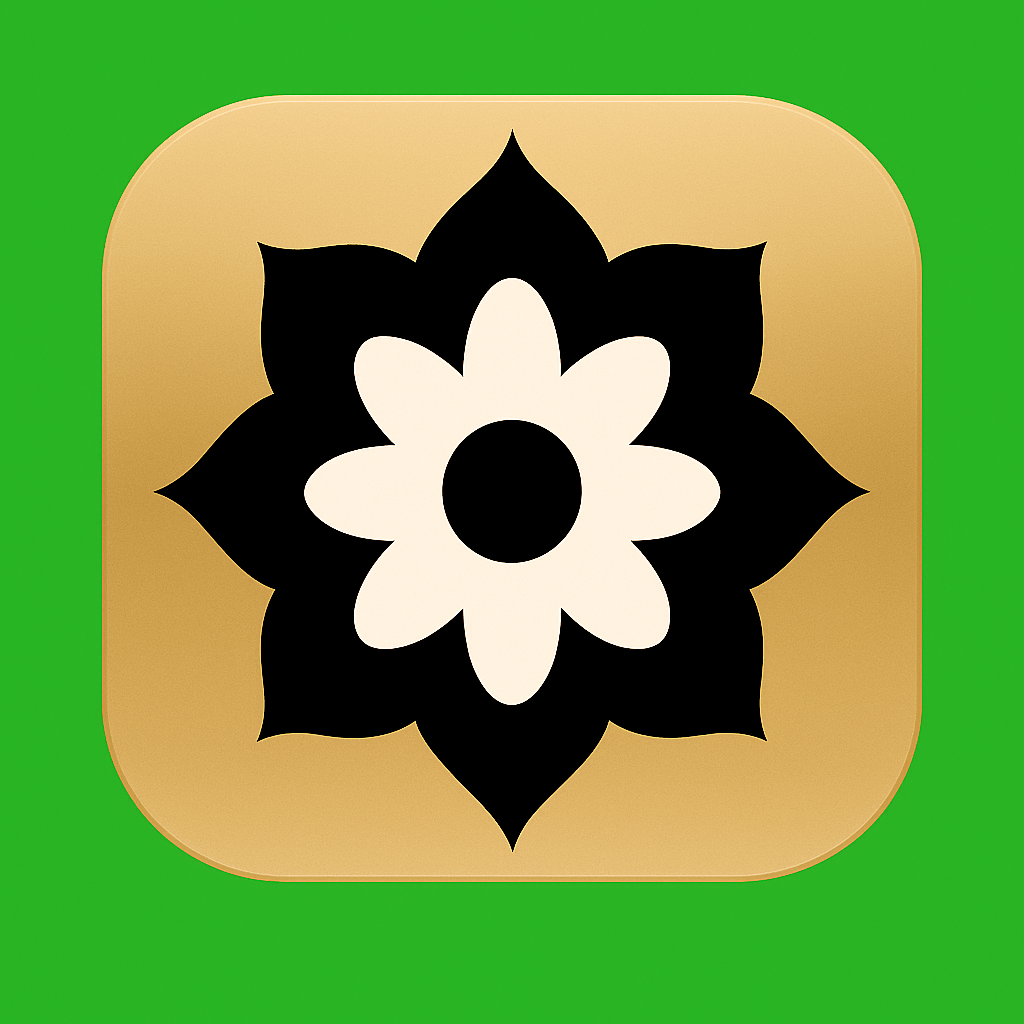
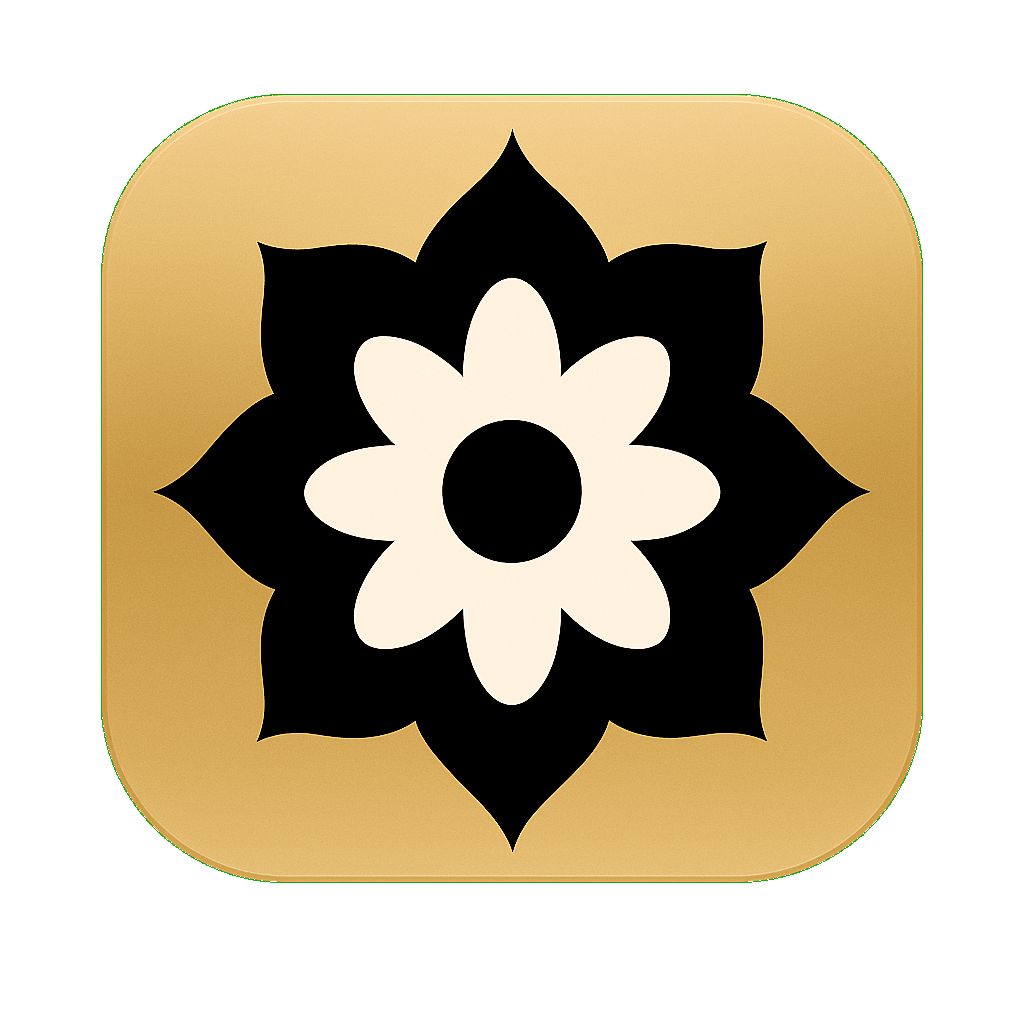
Apply green background removal - Designer(19) processed with transparent background

diff --git a/green_removal.py b/green_removal.py
@@ -1,0 +1,88 @@
+#!/usr/bin/env python3
+"""
+Green Background Remover for Designer(19).png
+Follows blueprint exactly - removes #46B214 and creates transparent version
+"""
+
+import os
+import sys
+import numpy as np
+from PIL import Image
+
+def process_designer_icon():
+    """
+    Process Designer(19).png to remove green background and save as icon-transparent.png
+    Following blueprint exactly with Pillow + NumPy
+    """
+    
+    # Config from blueprint
+    INPUT_FILE = "Designer (19).png"
+    OUTPUT_FILE = "icon-transparent.png"
+    TARGET = np.array([70, 178, 20])  # #46B214
+    TOLERANCE = 40
+    FEATHER = True  # Set False to skip OpenCV (blueprint says optional)
+    
+    print("🎨 Ruqiyah Icon Background Remover")
+    print("=" * 50)
+    print(f"📁 Input file: {INPUT_FILE}")
+    print(f"🎨 Output file: {OUTPUT_FILE}")
+    print(f"🎯 Target: Remove green #46B214")
+    print(f"🎯 Tolerance: {TOLERANCE}")
+    print(f"🪶 Feather: {FEATHER}")
+    print()
+    
+    if not os.path.exists(INPUT_FILE):
+        print(f"❌ Error: {INPUT_FILE} not found!")
+        return False
+    
+    try:
+        # Step 1: Load image and convert to RGBA (blueprint line 25)
+        img = Image.open(INPUT_FILE).convert("RGBA")
+        data = np.array(img)  # shape: (H, W, 4)
+        
+        # Step 2: Build color mask with tolerance (blueprint line 33)
+        r, g, b = data[:,:,0], data[:,:,1], data[:,:,2]
+        mask = (
+            (np.abs(r.astype(int) - TARGET[0]) <= TOLERANCE) &
+            (np.abs(g.astype(int) - TARGET[1]) <= TOLERANCE) &
+            (np.abs(b.astype(int) - TARGET[2]) <= TOLERANCE)
+        )
+        
+        # Step 3: Zero out matched pixels' alpha channel (blueprint line 38)
+        data[mask, 3] = 0
+        
+        # Step 4: Optional edge feathering (blueprint line 48-80)
+        if FEATHER:
+            try:
+                import cv2
+                alpha = data[:,:,3].astype(np.float32)
+                alpha = cv2.GaussianBlur(alpha, (3,3), 0)
+                data[:,:,3] = alpha.astype(np.uint8)
+                print("🪶 Applied edge feathering with (3,3) kernel")
+            except ImportError:
+                print("⚠ OpenCV not available - skipping edge feathering")
+                FEATHER = False
+        
+        # Step 5: Convert back to PIL image and save (blueprint line 89-90)
+        result = Image.fromarray(data)
+        result.save(OUTPUT_FILE, "PNG")
+        
+        print(f"✅ Success! Created {OUTPUT_FILE}")
+        print(f"📏 Original size: {img.size}")
+        print(f"🎨 Green background removed and replaced with transparency")
+        
+        return True
+        
+    except Exception as e:
+        print(f"❌ Error processing {INPUT_FILE}: {str(e)}")
+        return False
+
+if __name__ == "__main__":
+    success = process_designer_icon()
+    
+    if success:
+        print("\n🎉 Success! Your icon is ready for PWA use!")
+        print("📱 Follow the blueprint for professional results!")
+        print("💡 TIP: The transparent background will look much better as PWA icon!")
+    else:
+        print("\n❌ Failed to process icon")

diff --git a/green_removal_blueprint.md b/green_removal_blueprint.md
@@ -1,0 +1,153 @@
+# Blueprint: Green Screen Remover
+**Task:** `designer(19).png` → transparent PNG  
+**Target color:** `#46B214` (RGB: 70, 178, 20)  
+**Stack:** Python · Pillow · NumPy · (optional) OpenCV — all free
+
+---
+
+## Step 1 — Install dependencies
+
+```bash
+pip install Pillow numpy
+```
+
+- **Pillow** — image I/O and format handling  
+- **NumPy** — fast pixel array math
+
+---
+
+## Step 2 — Load image and convert to RGBA
+
+```python
+from PIL import Image
+import numpy as np
+
+img = Image.open("designer(19).png").convert("RGBA")
+data = np.array(img)  # shape: (H, W, 4)
+```
+
+Converting to RGBA ensures we have an alpha channel to write into.
+
+---
+
+## Step 3 — Build color mask with tolerance
+
+```python
+TARGET = np.array([70, 178, 20])   # #46B214
+TOLERANCE = 40                      # tweak if needed
+
+r, g, b = data[:,:,0], data[:,:,1], data[:,:,2]
+mask = (
+    (np.abs(r.astype(int) - TARGET[0]) <= TOLERANCE) &
+    (np.abs(g.astype(int) - TARGET[1]) <= TOLERANCE) &
+    (np.abs(b.astype(int) - TARGET[2]) <= TOLERANCE)
+)
+```
+
+Tolerance catches slight color variations and JPEG compression artifacts.  
+- Raise to **60+** if edges look rough or patchy  
+- Lower to **20** if the removal bleeds into non-green areas
+
+---
+
+## Step 4 — Zero out matched pixels' alpha
+
+```python
+data[mask, 3] = 0   # set alpha=0 → fully transparent
+```
+
+Only the alpha channel is touched — RGB values are preserved but invisible. No quality loss.
+
+---
+
+## Step 5 — Optional: edge feathering for soft edges
+
+```bash
+pip install opencv-python
+```
+
+```python
+import cv2
+
+alpha = data[:,:,3].astype(np.float32)
+alpha = cv2.GaussianBlur(alpha, (3,3), 0)
+data[:,:,3] = alpha.astype(np.uint8)
+```
+
+Prevents hard jagged edges at the removal boundary.  
+Recommended for curved or diagonal edges and high-quality output.  
+- `(3,3)` kernel — subtle softening  
+- `(5,5)` kernel — softer, more blended edges
+
+---
+
+## Step 6 — Save output to working directory
+
+```python
+result = Image.fromarray(data)
+result.save("designer(19)_transparent.png")   # lossless PNG
+```
+
+Always save as `.png` — it is the only common format that preserves transparency losslessly. Never use `.jpg` or `.webp` for transparent output.
+
+---
+
+## Full script (copy-paste ready)
+
+```python
+from PIL import Image
+import numpy as np
+
+# --- config ---
+INPUT_FILE  = "designer(19).png"
+OUTPUT_FILE = "designer(19)_transparent.png"
+TARGET      = np.array([70, 178, 20])   # #46B214
+TOLERANCE   = 40
+FEATHER     = True   # set False to skip edge softening
+# --------------
+
+img  = Image.open(INPUT_FILE).convert("RGBA")
+data = np.array(img)
+
+r, g, b = data[:,:,0], data[:,:,1], data[:,:,2]
+mask = (
+    (np.abs(r.astype(int) - TARGET[0]) <= TOLERANCE) &
+    (np.abs(g.astype(int) - TARGET[1]) <= TOLERANCE) &
+    (np.abs(b.astype(int) - TARGET[2]) <= TOLERANCE)
+)
+data[mask, 3] = 0
+
+if FEATHER:
+    import cv2
+    alpha = data[:,:,3].astype(np.float32)
+    alpha = cv2.GaussianBlur(alpha, (3,3), 0)
+    data[:,:,3] = alpha.astype(np.uint8)
+
+result = Image.fromarray(data)
+result.save(OUTPUT_FILE)
+print(f"Saved: {OUTPUT_FILE}")
+```
+
+---
+
+## Key parameters reference
+
+| Parameter | Default | Notes |
+|---|---|---|
+| `TOLERANCE` | `40` | Raise to 60+ for JPEGs, lower to 20 for crisp PNGs |
+| Feather kernel | `(3,3)` | Use `(5,5)` for softer edges |
+| `FEATHER` flag | `True` | Set `False` to skip OpenCV dependency |
+| Input format | PNG / JPG / WEBP | JPG compression may drift color — raise TOLERANCE |
+| Output format | **Must be `.png`** | JPG/WEBP cannot store transparency |
+
+---
+
+## Dependencies summary
+
+| Library | Install | Purpose |
+|---|---|---|
+| Pillow | `pip install Pillow` | Image open/save, RGBA conversion |
+| NumPy | `pip install numpy` | Fast array masking |
+| OpenCV | `pip install opencv-python` | Optional edge feathering only |
+
+All free and open source. No API keys or paid services required.
